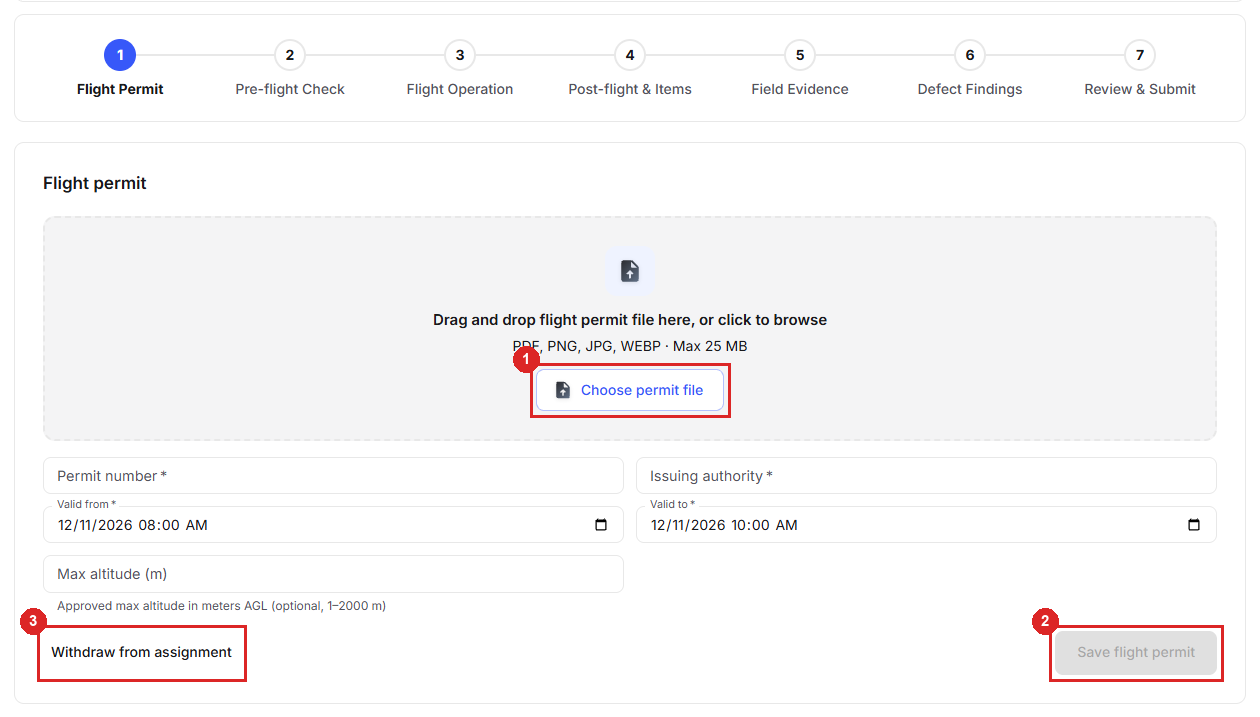
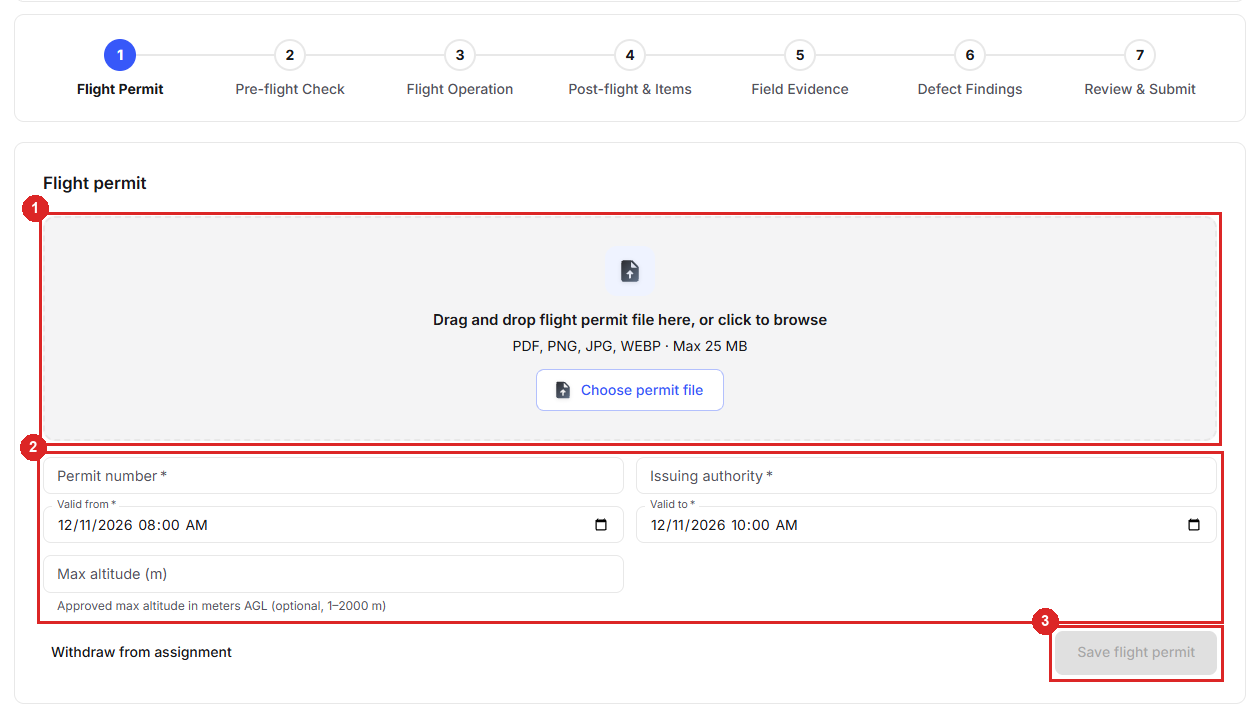
docs(reports): unify WF2, WF4, and WF5 manual callouts for happy-path flow

diff --git a/reports/report-6-software-user-guides/01-user-guides.md b/reports/report-6-software-user-guides/01-user-guides.md
@@ -140,7 +140,7 @@ On the Inspector sign-in page, select **Register as Inspector**.
 
 ❶ Enter your account details and select **Tiếp tục** (Continue).
 
-❷ Provide identity and licence information, upload the requested scan and complete email verification to submit the application.
+Complete the next two stages in the wizard to provide identity and licence information, upload the requested scan and finish email verification to submit the application.
 
 ![Partner Inspector application stages](assets/manual/wf2-01-inspector-apply.png)
 
@@ -330,11 +330,13 @@ Open the Customer conversation from **Messages** in the inspection.
 
 Open **Flight Permit** while the inspection is scheduled.
 
-❶ Select **Choose permit file** (up to 25 MB). To update an existing permit, select **Replace permit** and **Choose replacement permit file**. Enter the permit details and check the assigned drone and flight window.
+❶ Select **Choose permit file** (up to 25 MB). To update an existing permit, select **Replace permit** and **Choose replacement permit file**.
 
-❷ Select **Save flight permit** (**Lưu giấy phép bay**). Check that a valid upload shows **Approved**. If a drone change or reschedule resets the permit, save a replacement.
+❷ Enter the permit number, issuing authority, validity window and max altitude, and check the assigned drone.
 
-❸ If you have accepted the assignment and field work has yet to start, select **Withdraw from assignment** (**Rút khỏi phân công**), enter the reason and select **Confirm withdrawal** (**Xác nhận rút**). The inspections list opens and the Manager can reassign or cancel the scheduled inspection. After starting a session, contact the Manager to change the schedule, even if you have since aborted the session.
+❸ Select **Save flight permit** (**Lưu giấy phép bay**). Check that a valid upload shows **Approved**. If a drone change or reschedule resets the permit, save a replacement.
+
+*Alternative:* If you have accepted the assignment and field work has yet to start, select **Withdraw from assignment** (**Rút khỏi phân công**), enter the reason and select **Confirm withdrawal** (**Xác nhận rút**). The inspections list opens and the Manager can reassign or cancel the scheduled inspection. After starting a session, contact the Manager to change the schedule, even if you have since aborted the session.
 
 ![Flight Permit screen with save and withdrawal actions](assets/manual/wf4-permit-form.png)
 
@@ -418,9 +420,7 @@ Use the assigned Inspector account and the same inspection as in Workflow 4. Hav
 
 ❶ In **Defect Findings**, select **Analyze all images** to run detection on eligible photos.
 
-❷ When findings are present, select **Draft all notes** if you want suggested notes for them.
-
-Review the evidence yourself before accepting a detection or an AI-drafted note.
+*Optional:* When findings are present, select **Draft all notes** if you want suggested notes for them. Review the evidence yourself before accepting a detection or an AI-drafted note.
 
 ![Batch detection and note drafting controls](assets/manual/wf5-02-ins-findings-toolbar.png)
 
@@ -430,11 +430,9 @@ Review the evidence yourself before accepting a detection or an AI-drafted note.
 
 ❶ Turn on **Show detected regions** to compare the marked region with the evidence photo.
 
-❷ Use **Draft note with AI** when needed and correct the suggested text before saving.
+❷ Choose a decision for the finding: select **Confirm** when supported by the evidence, **Edit / Change defect** to adjust the label or severity, or **Remove** if the suggestion is not supported.
 
-❸ Select **Confirm** when the finding is supported by the evidence.
-
-❹ Select **Remove** if the evidence does not support the suggestion.
+*Optional:* Use **Draft note with AI** before confirming when you want a suggested technical note, and review the text before saving.
 
 ![Evidence, suggested note and finding decision](assets/manual/wf5-03-ins-findings-card.png)
 

diff --git a/reports/report-7-final-project-report/06-release-package-and-user-guides.md b/reports/report-7-final-project-report/06-release-package-and-user-guides.md
@@ -137,7 +137,7 @@ On the Inspector sign-in page, select **Register as Inspector**.
 
 ❶ Enter your account details and select **Tiếp tục** (Continue).
 
-❷ Provide identity and licence information, upload the requested scan and complete email verification to submit the application.
+Complete the next two stages in the wizard to provide identity and licence information, upload the requested scan and finish email verification to submit the application.
 
 ![Partner Inspector application stages](assets/manual/wf2-01-inspector-apply.png)
 
@@ -327,11 +327,13 @@ Open the Customer conversation from **Messages** in the inspection.
 
 Open **Flight Permit** while the inspection is scheduled.
 
-❶ Select **Choose permit file** (up to 25 MB). To update an existing permit, select **Replace permit** and **Choose replacement permit file**. Enter the permit details and check the assigned drone and flight window.
+❶ Select **Choose permit file** (up to 25 MB). To update an existing permit, select **Replace permit** and **Choose replacement permit file**.
 
-❷ Select **Save flight permit** (**Lưu giấy phép bay**). Check that a valid upload shows **Approved**. If a drone change or reschedule resets the permit, save a replacement.
+❷ Enter the permit number, issuing authority, validity window and max altitude, and check the assigned drone.
 
-❸ If you have accepted the assignment and field work has yet to start, select **Withdraw from assignment** (**Rút khỏi phân công**), enter the reason and select **Confirm withdrawal** (**Xác nhận rút**). The inspections list opens and the Manager can reassign or cancel the scheduled inspection. After starting a session, contact the Manager to change the schedule, even if you have since aborted the session.
+❸ Select **Save flight permit** (**Lưu giấy phép bay**). Check that a valid upload shows **Approved**. If a drone change or reschedule resets the permit, save a replacement.
+
+*Alternative:* If you have accepted the assignment and field work has yet to start, select **Withdraw from assignment** (**Rút khỏi phân công**), enter the reason and select **Confirm withdrawal** (**Xác nhận rút**). The inspections list opens and the Manager can reassign or cancel the scheduled inspection. After starting a session, contact the Manager to change the schedule, even if you have since aborted the session.
 
 ![Flight Permit screen with save and withdrawal actions](assets/manual/wf4-permit-form.png)
 
@@ -415,9 +417,7 @@ Use the assigned Inspector account and the same inspection as in Workflow 4. Hav
 
 ❶ In **Defect Findings**, select **Analyze all images** to run detection on eligible photos.
 
-❷ When findings are present, select **Draft all notes** if you want suggested notes for them.
-
-Review the evidence yourself before accepting a detection or an AI-drafted note.
+*Optional:* When findings are present, select **Draft all notes** if you want suggested notes for them. Review the evidence yourself before accepting a detection or an AI-drafted note.
 
 ![Batch detection and note drafting controls](assets/manual/wf5-02-ins-findings-toolbar.png)
 
@@ -427,11 +427,9 @@ Review the evidence yourself before accepting a detection or an AI-drafted note.
 
 ❶ Turn on **Show detected regions** to compare the marked region with the evidence photo.
 
-❷ Use **Draft note with AI** when needed and correct the suggested text before saving.
+❷ Choose a decision for the finding: select **Confirm** when supported by the evidence, **Edit / Change defect** to adjust the label or severity, or **Remove** if the suggestion is not supported.
 
-❸ Select **Confirm** when the finding is supported by the evidence.
-
-❹ Select **Remove** if the evidence does not support the suggestion.
+*Optional:* Use **Draft note with AI** before confirming when you want a suggested technical note, and review the text before saving.
 
 ![Evidence, suggested note and finding decision](assets/manual/wf5-03-ins-findings-card.png)
 
